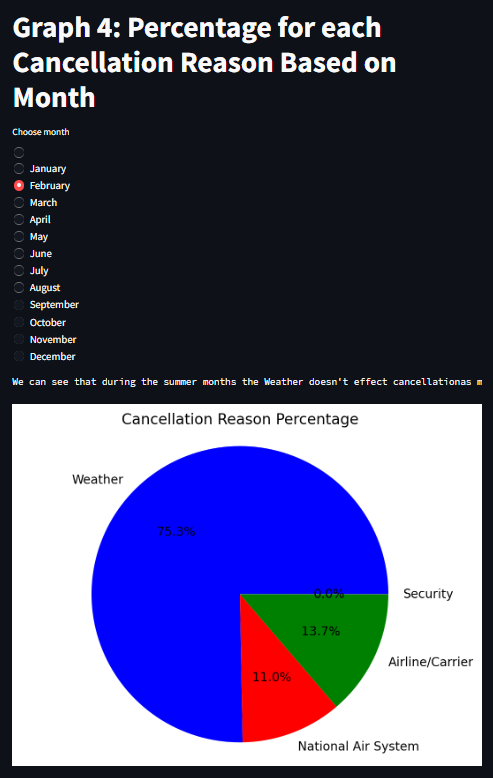
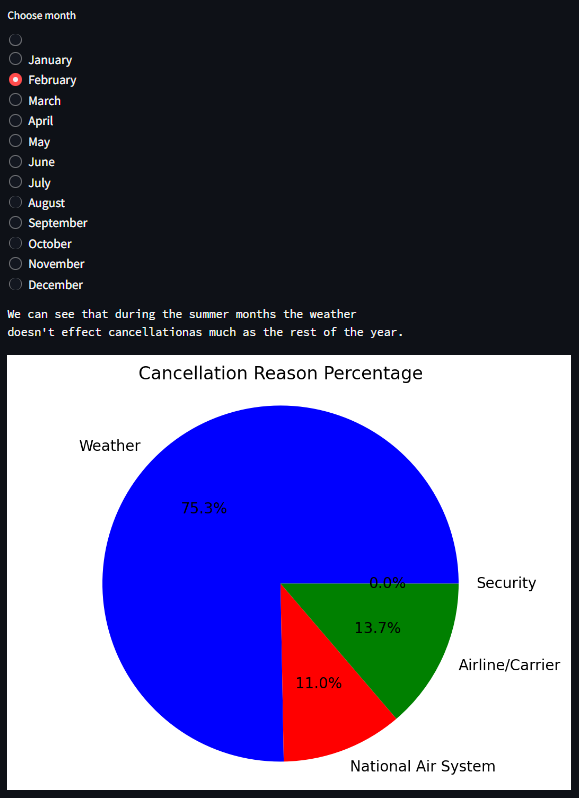
changed images and made a better text

diff --git a/dashboard.py b/dashboard.py
@@ -334,7 +334,7 @@ def show_graph_4():
     ax.axis('equal')
     ax.set_title("Cancellation Reason Percentage")
 
-    st.text("We can see that during the summer months the Weather doesn't effect cancellation"
+    st.text("We can see that during the summer months the weather\ndoesn't effect cancellation"
             "as much as the rest of the year.")
 
     st.pyplot(fig)
